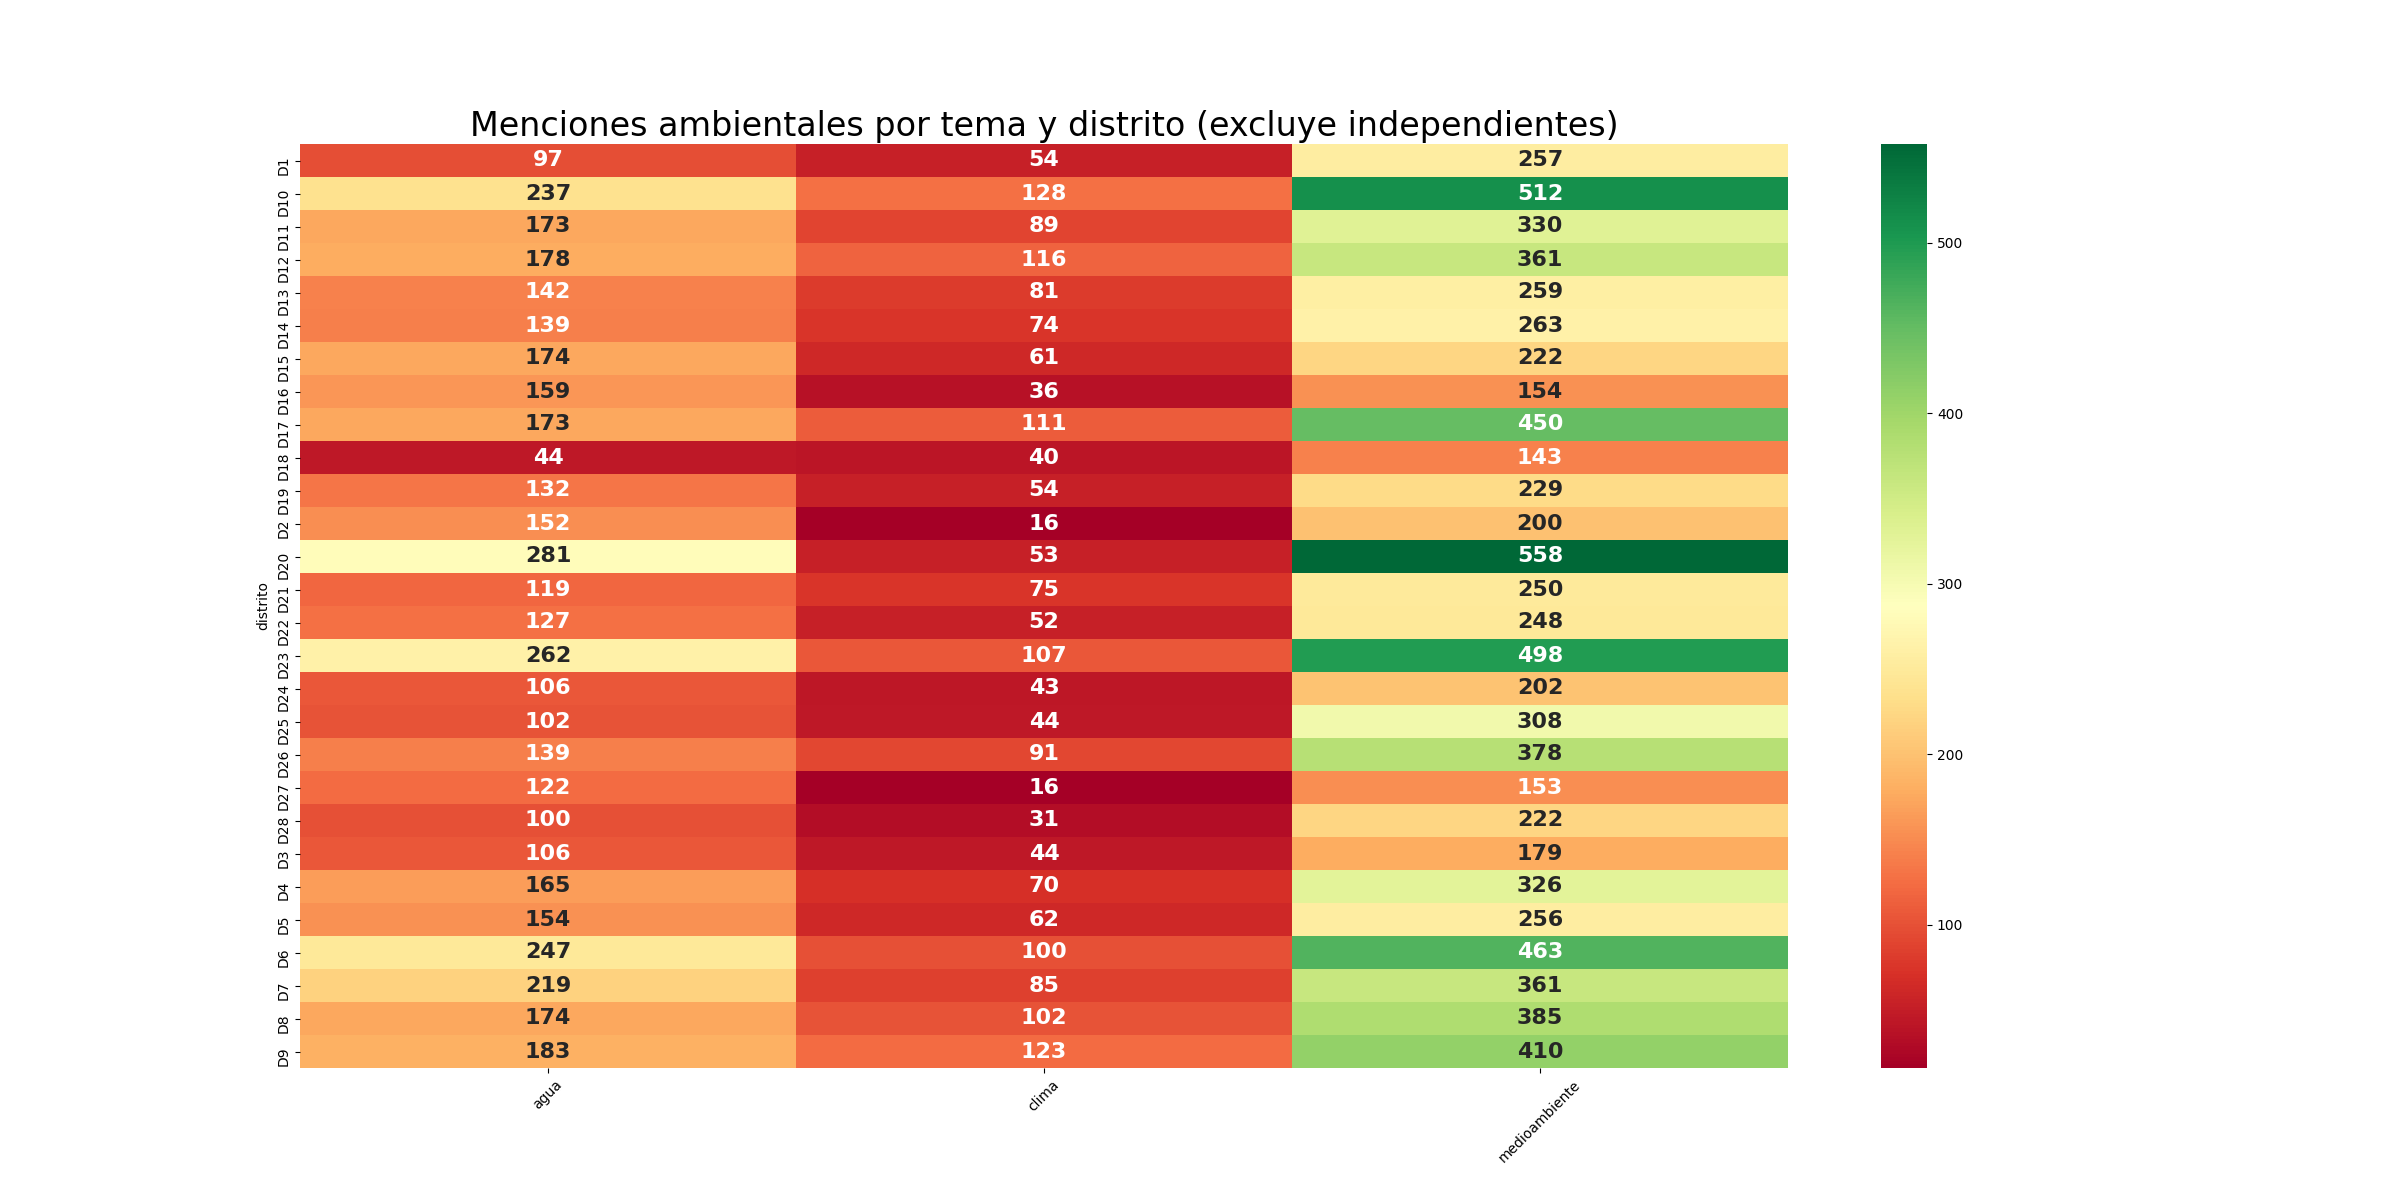
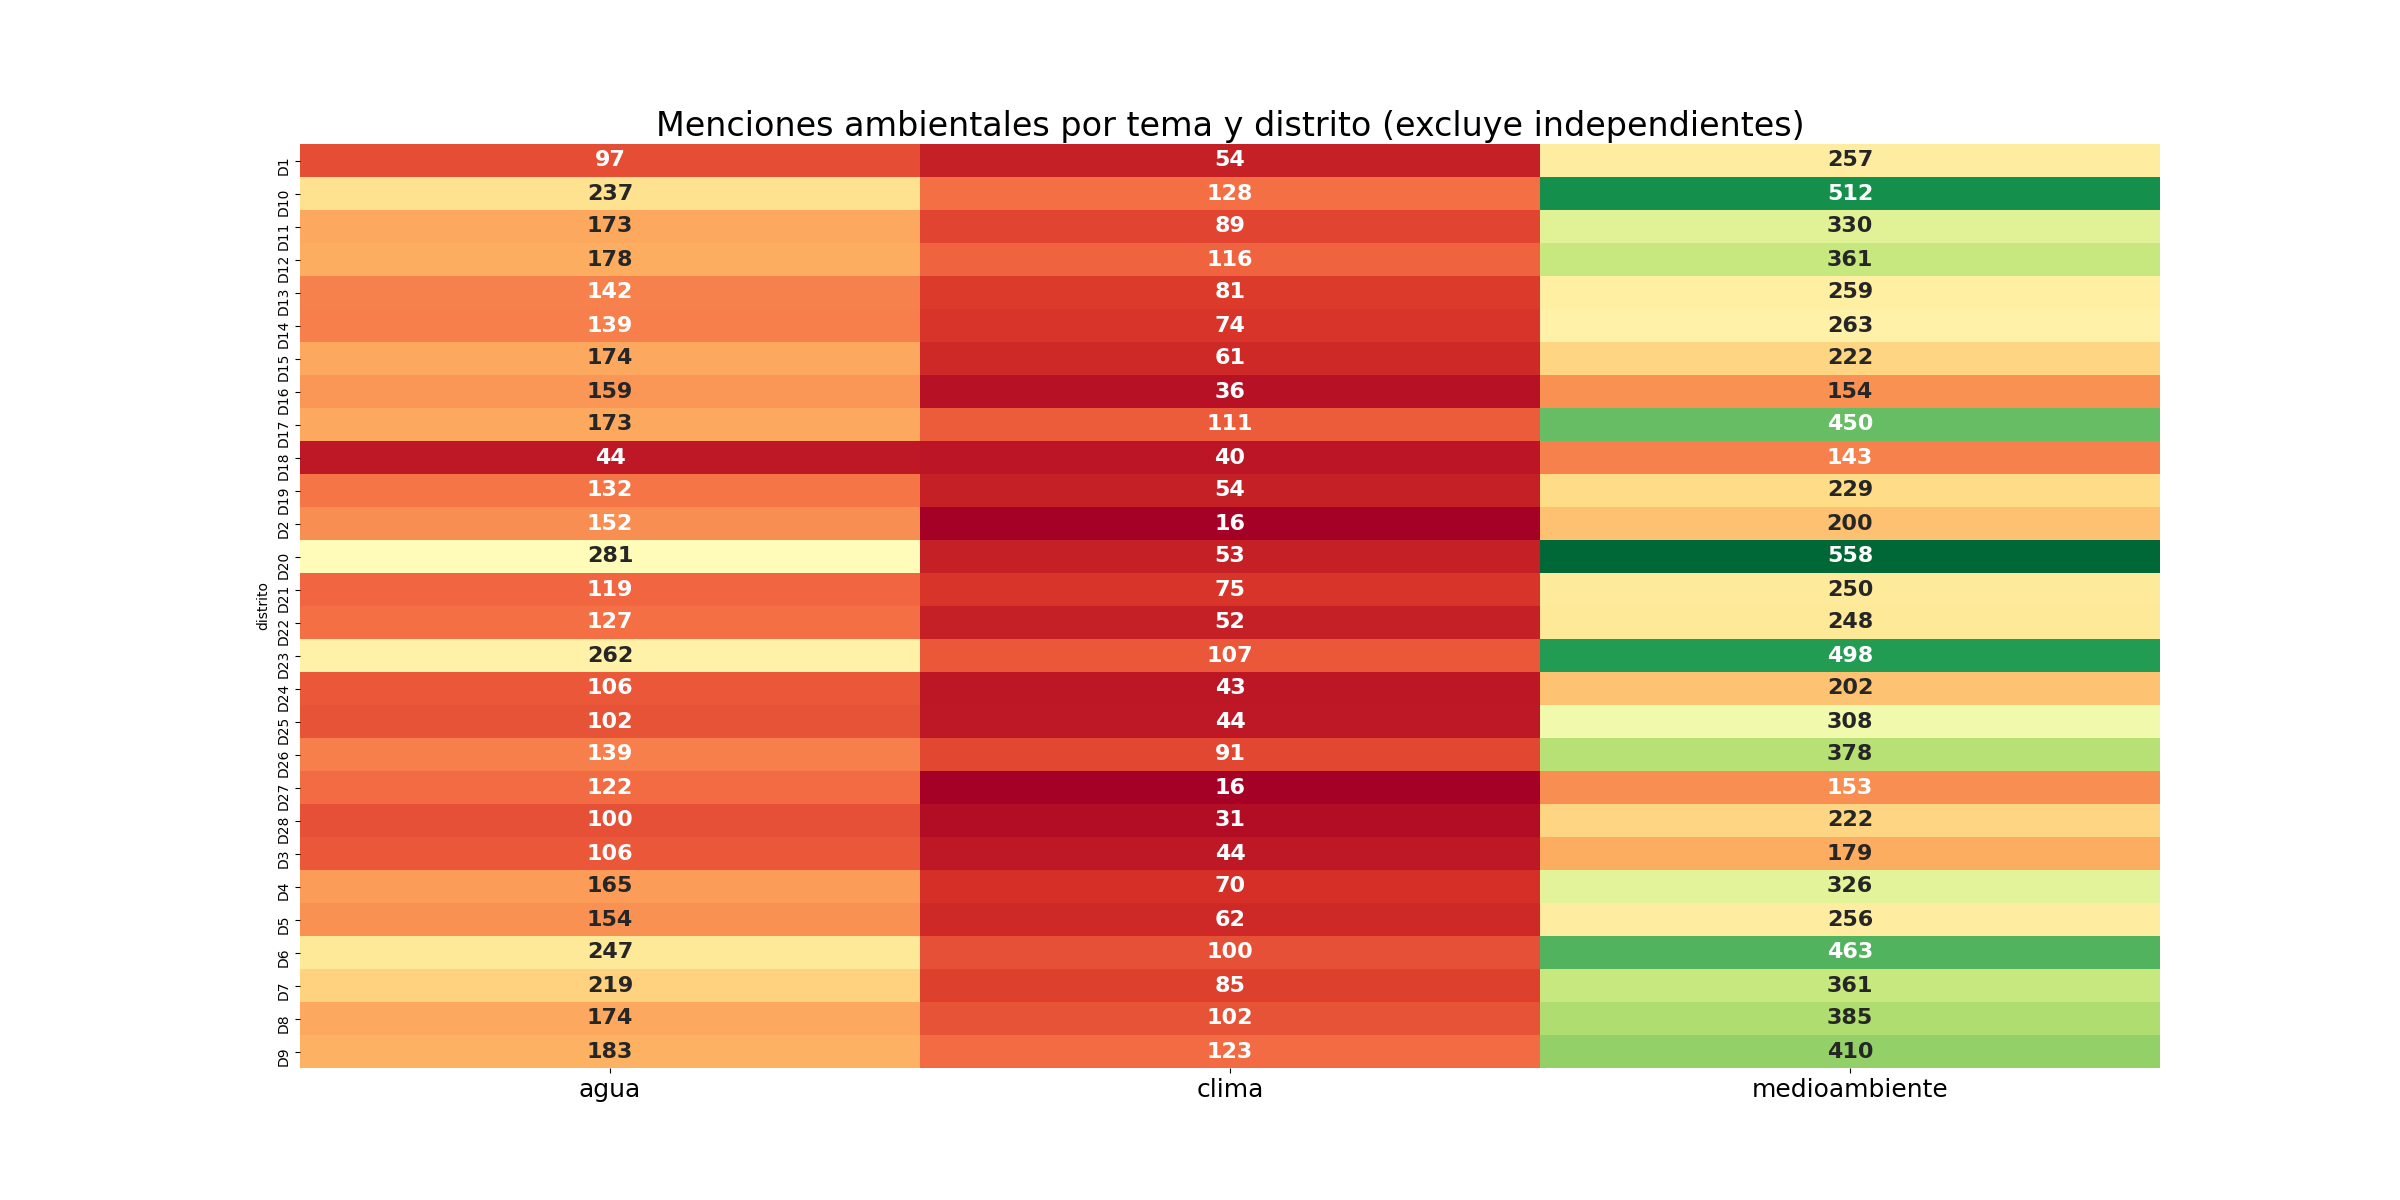
rotaters!

Changed region(s): [[0.1875, 0.0925, 0.9062, 0.925], [0.625, 0.925, 0.6562, 0.9558]]

diff --git a/plotters.py b/plotters.py
@@ -62,9 +62,11 @@ ddf = xdf.groupby('distrito').sum()
 psdf = ddf.drop('largo', axis=1)
 
 fig, ax = plt.subplots(1, figsize=(24,12))
-p=sns.heatmap(psdf.replace(0,np.nan), annot=True, annot_kws={'size':16, 'weight': 'bold'}, 
-              cmap='RdYlGn', fmt='.0f');
-plt.xticks(rotation=45)
+p = sns.heatmap(psdf.replace(0,np.nan), annot=True, annot_kws={'size':16, 'weight': 'bold'}, 
+              cmap='RdYlGn', fmt='.0f', cbar=False);
+#plt.xticks(rotation=45)
+plt.xticks(fontsize=18)  # agua, clima, medio
+
 plt.title('Menciones ambientales por tema y distrito (excluye independientes)', size=24);
 plt.savefig('static/heatmap_distritos.png')
 plt.close()
@@ -121,7 +123,8 @@ psdf = sdf[sdf.index.isin(partidos)]
 fig, ax = plt.subplots(1, figsize=(24,12))
 p=sns.heatmap(psdf[temas].replace(0,np.nan), annot=True, annot_kws={'size':16, 'weight': 'bold'}, 
               cmap='RdYlGn', fmt='.0f');
-plt.xticks(rotation=45); plt.title('Menciones ambientales por tema y partido (incluye independientes)', size=24);
+plt.xticks(rotation=45)
+plt.title('Menciones ambientales por tema y partido (incluye independientes)', size=24);
 plt.savefig('static/heatmap_partidosI.png')
 plt.close()
 
